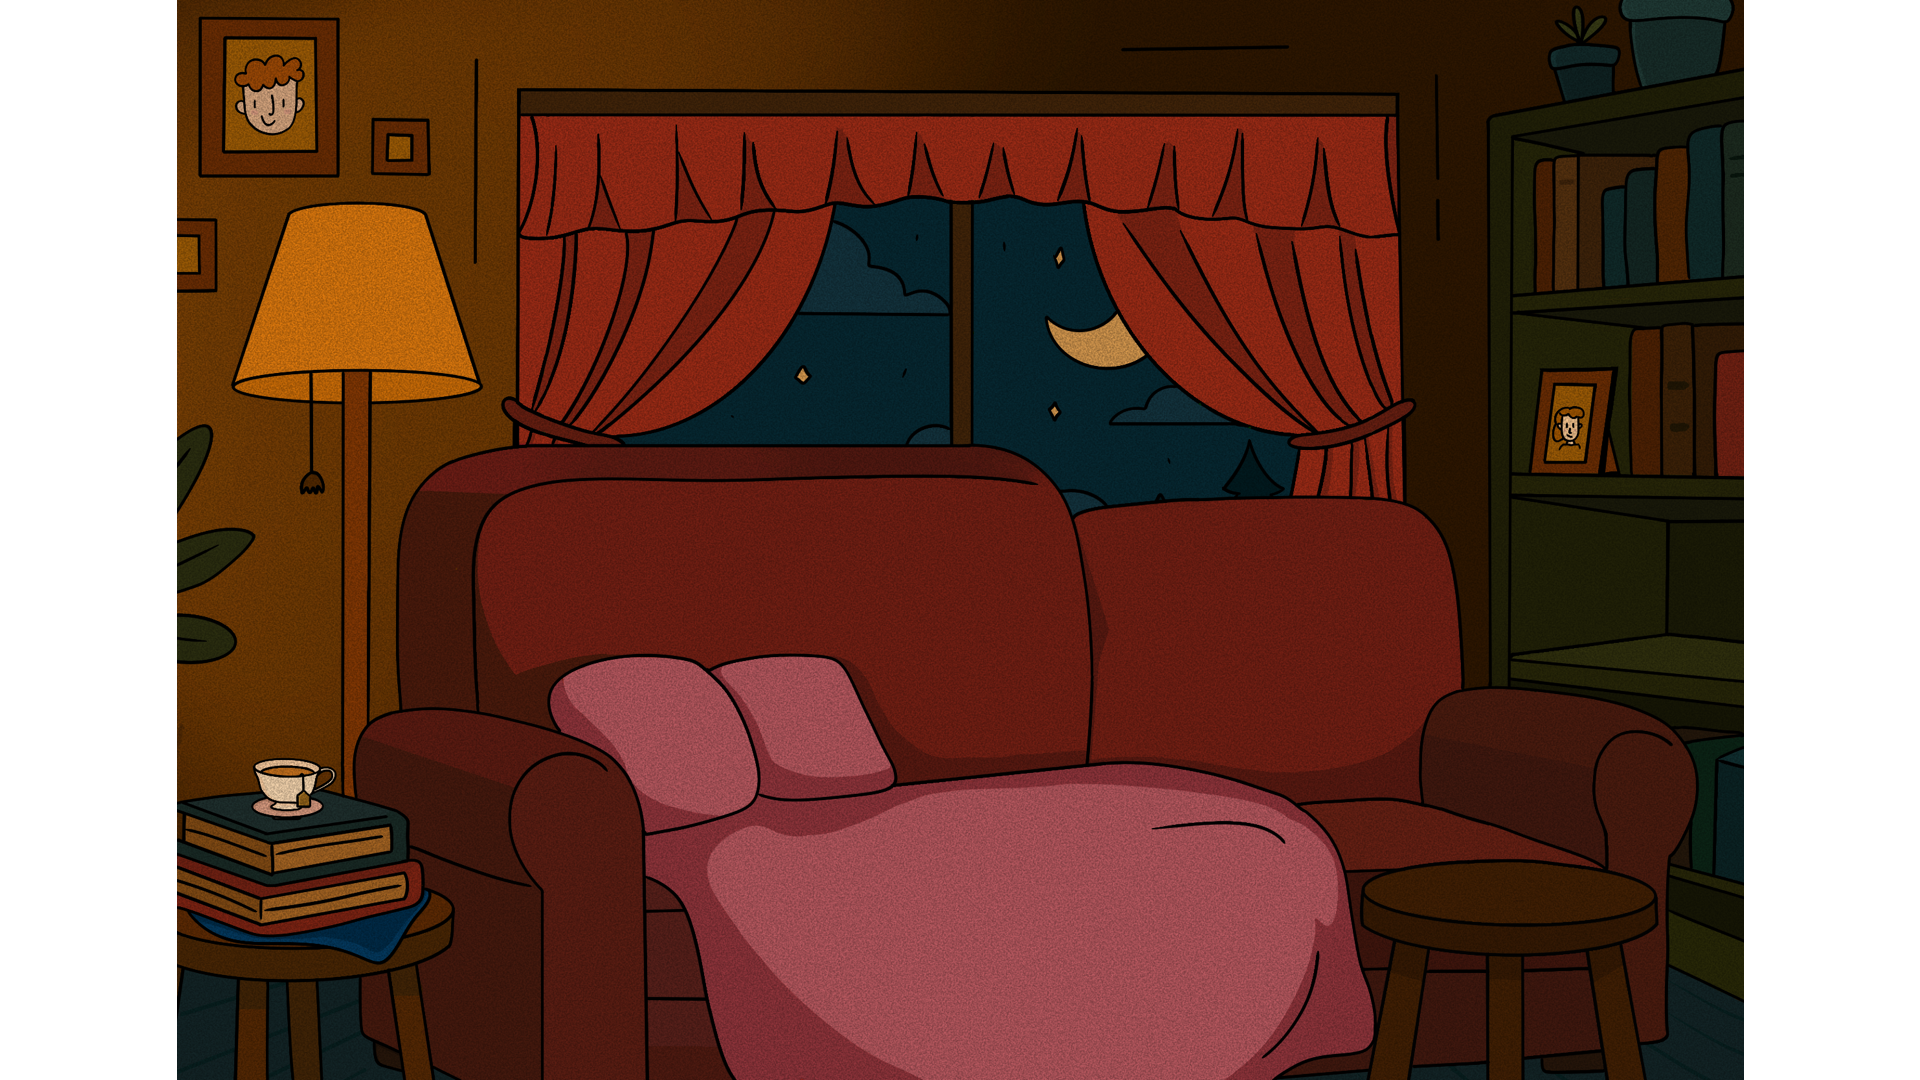
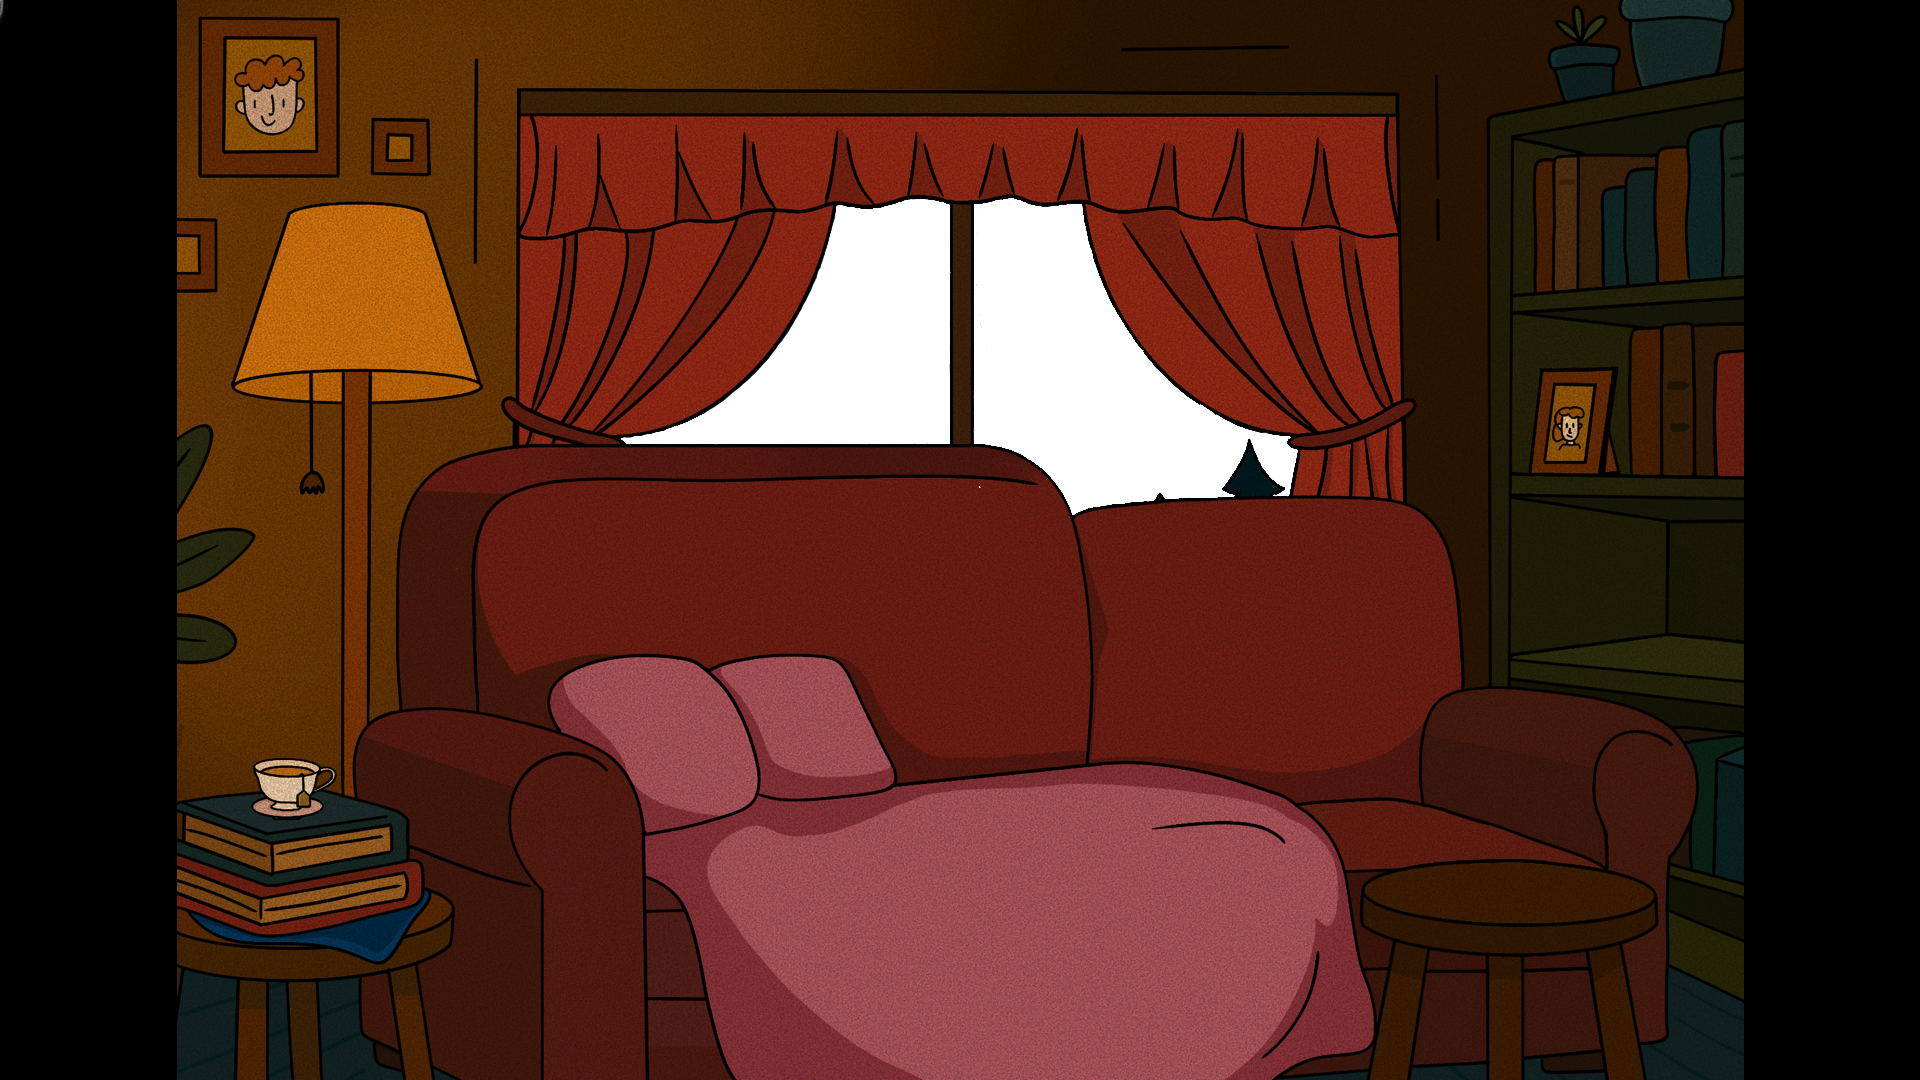
anim ventana

Changed region(s): [[0.9062, 0.0, 1.0, 1.0], [0.0, 0.0, 0.0938, 1.0], [0.3125, 0.1833, 0.6875, 0.4889]]

diff --git a/Grand!Scam/src/juego.js b/Grand!Scam/src/juego.js
@@ -4,12 +4,12 @@ export default class Juego extends Phaser.Scene {
   constructor() {
     super({ key: 'juego' });
   }
-  
+
   //DATOS DEL FORMULARIO
   init(data) {
     this.playerData = data.playerData;
   }
-  
+
   reemplazarEnJson(obj, data) {
     if (typeof obj === 'string') {
       return obj.replace(/\{(\w+)\}/g, (_, key) => data[key] ?? `{${key}}`);
@@ -22,7 +22,7 @@ export default class Juego extends Phaser.Scene {
     }
     return obj;
   }
-  
+
   create() {
     this.entraLLamada = false;
     this.entraMensaje = false;
@@ -39,14 +39,19 @@ export default class Juego extends Phaser.Scene {
 
       // ⚠ Importante: Phaser devuelve una referencia viva, así que esto modifica el JSON global
       Object.assign(textosBase, textosPersonalizados);
-      
+
       // Marca que ya se hizo el reemplazo
       this.registry.set('textosPersonalizados', true);
       // Marcar el cuestionario como completado
       this.registry.set('cuestionarioCompletado', true);
 
     }
-    
+
+    //VENTANA
+    this.scrollSpeed = 0.4; // velocidad del movimiento (ajústala)
+    this.ventana1 = this.add.image(0, 0, 'ventana1').setOrigin(0, 0);
+    this.ventana2 = this.add.image(this.ventana1.width, 0, 'ventana2').setOrigin(0, 0);
+    this.ventana3 = this.add.image(this.ventana1.width * 2, 0, 'ventana3').setOrigin(0, 0);
 
     //POSICION Y TAMAÑO DEL FONDO
     this.fondo = this.add.image(0, 0, 'fondoJuego');
@@ -57,11 +62,11 @@ export default class Juego extends Phaser.Scene {
     this.teclaEsc = this.input.keyboard.addKey(Phaser.Input.Keyboard.KeyCodes.ESC);
     //CREACION ANIMACIONES DEL JUEGO
     this.createAnims();
-    
+
     //ANIM HUMO (SIEMPRE VA A ESTAR EN ESCENA)
     this.humo = this.add.sprite(this.cameras.main.width / 4.45, this.cameras.main.height / 1.52, 'animHumo');
     this.humo.anims.play('humo');
-    
+
     this.vidas = new GestionVida(this);
     //INSTANCIA DEL TELEFONO (ESTA FIJO PERO SIN ANIM)
     this.telefono = this.add.sprite(this.cameras.main.width / 1.25,
@@ -180,8 +185,8 @@ export default class Juego extends Phaser.Scene {
     else {
       this.randomCaso = " ";
     }
-    console.log(this.randomApp);
-    console.log(this.randomCaso);
+    // console.log(this.randomApp);
+    // console.log(this.randomCaso);
     this.scene.launch('movil', { vidas: this.vidas, textos: this.textos, randomApp: this.randomApp, randomCaso: this.randomCaso, obligatorio: this.obMovil });
   }
   escenaPausa() {
@@ -225,6 +230,22 @@ export default class Juego extends Phaser.Scene {
   }
 
   update() {
+    // MOVIMIENTO CONTINUO DEL CIELO (se laggeeeeea)
+    this.ventana1.x -= this.scrollSpeed;
+    this.ventana2.x -= this.scrollSpeed;
+    this.ventana3.x -= this.scrollSpeed;
+    // Reposicionar si alguna sale completamente a la izquierda
+    if (this.ventana1.x + this.ventana1.width <= 0) {
+      this.ventana1.x = Math.max(this.ventana2.x, this.ventana3.x) + this.ventana1.width;
+    }
+    if (this.ventana2.x + this.ventana2.width <= 0) {
+      this.ventana2.x = Math.max(this.ventana1.x, this.ventana3.x) + this.ventana2.width;
+    }
+    if (this.ventana3.x + this.ventana3.width <= 0) {
+      this.ventana3.x = Math.max(this.ventana1.x, this.ventana2.x) + this.ventana3.width;
+    }
+
+    //FLUJO JUEGO
     if (!this.entraLLamada && !this.entraMensaje) {
       const num = Phaser.Math.Between(0, 2);
       if (num == 0 && this.masLLamada) {

diff --git a/Grand!Scam/src/escenaCarga.js b/Grand!Scam/src/escenaCarga.js
@@ -55,6 +55,9 @@ export default class EscenaCarga extends Phaser.Scene {
     this.load.image('vida', './assets/vidas.png');
     this.load.image('was', './assets/was.png');
     this.load.image('velas', './assets/velas.png');
+    this.load.image('ventana1', './assets/ventana1.png');
+    this.load.image('ventana2', './assets/ventana2.png');
+    this.load.image('ventana3', './assets/ventana3.png');
 
 
 

diff --git a/Grand!Scam/src/bocadillos.js b/Grand!Scam/src/bocadillos.js
@@ -37,7 +37,7 @@ export default class Bocadillos extends Phaser.GameObjects.Container {
                 fontSize -= 1;
                 txt.setFontSize(fontSize);
                 txt.setWordWrapWidth(maxWidth); // 🔹 recalcula wordWrap con la nueva fuente
-            }
+            } 
 
             return txt;
         }
